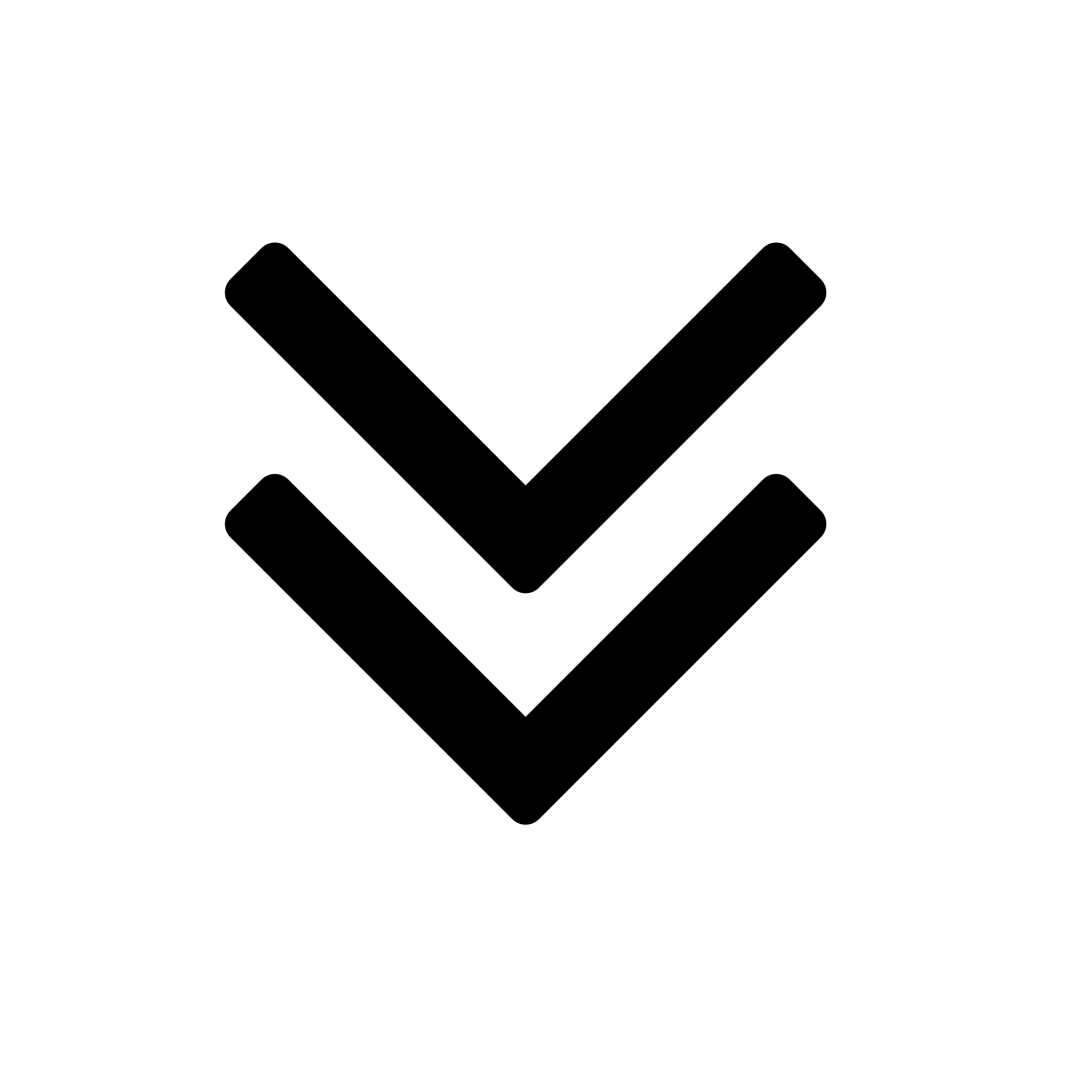
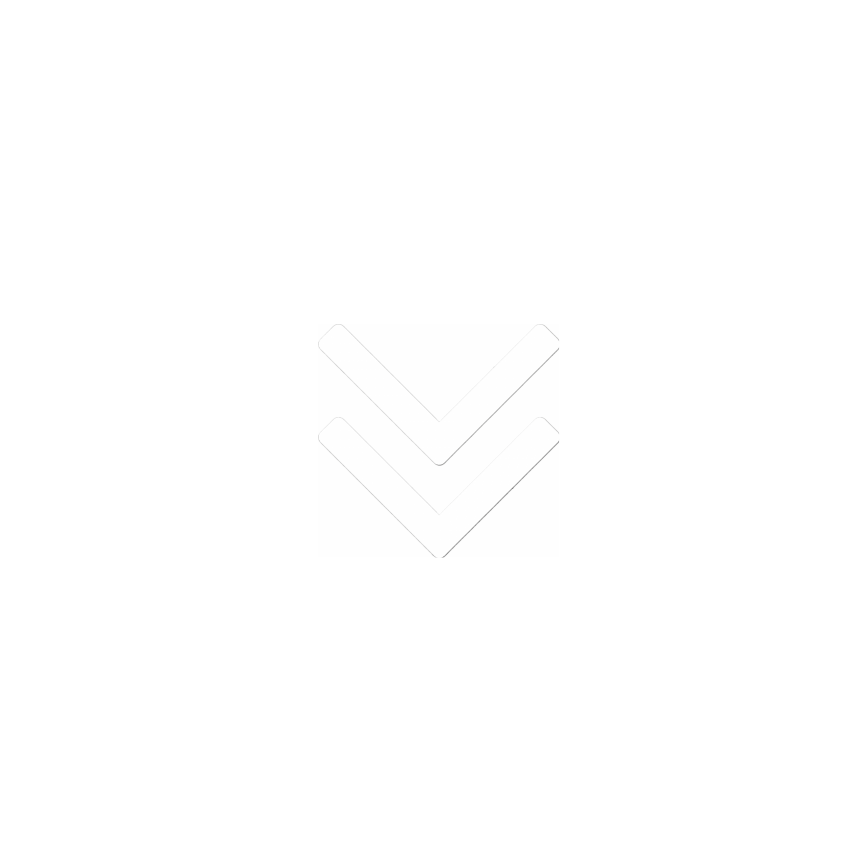
Portfolio page updated

Changed region(s): [[0.2141, 0.4282, 0.7647, 0.7647], [0.2141, 0.2141, 0.7647, 0.5506]]

diff --git a/src/components/portfolio/portfolio.scss b/src/components/portfolio/portfolio.scss
@@ -3,9 +3,9 @@
 
 .portfolio {
 
-    background-color: whitesmoke;
+    background-color: #013328;
     //background: linear-gradient(90deg, #e3ffe7 0%, #d9e7ff 100%);
-    background-image: linear-gradient( #9ce9f3,#d6b8f7);
+    //background-image: linear-gradient( #9ce9f3,#d6b8f7);
     display: flex;
     flex-direction: column;
     align-items: center;
@@ -29,17 +29,17 @@
             .about{
                 height: 65%;
                 width: 95%;
-                border: 1px solid black;
+                border: 2px solid #cc8b65;
                 // background-color: white;
                 h1{
                     text-align: center;
                     font-family: 'Courier New', Courier, monospace;
-                    color: rgb(0, 0, 0);
+                    color: #CC8B65;
                     padding-bottom: 25px;
                     padding-top: 35px;
                 }
                 p{
-                    color: rgb(51, 48, 48);
+                    color: #dbcab3;
                     text-align: center;
                     padding-left: 25px;
                     padding-right: 25px;
@@ -63,7 +63,7 @@
             .tech{
                 height: 70%;
                 width: 95%;
-                background-color: rgb(220, 170, 153);
+                background-color: #cab79d;
                 h1{
                     text-align: center;
                     font-family: 'Courier New', Courier, monospace;
@@ -95,7 +95,8 @@
             .design{
                 height: 25%;
                 width: 95%;
-                background-color: rgb(113, 145, 161);
+                //background-color: #e6e6e6;
+                background-color:#fbc687;
                 h1{
                     text-align: center;
                     font-family: 'Courier New', Courier, monospace;

diff --git a/src/components/nar/nar.scss b/src/components/nar/nar.scss
@@ -1,8 +1,8 @@
 @import "../../global.scss";
 
 .nar {
-  background-image: linear-gradient( #9ce9f3,#d6b8f7);
-  //background-color: white;
+  //background-image: linear-gradient( #9ce9f3,#d6b8f7);
+  background-color: #013328;
   display: flex;
   flex-direction: column;
   align-items: center;
@@ -14,7 +14,8 @@
 
   h1 {
     font-size: 50px;
-
+    color: #CC8B65;
+    padding-top: 30px;
     // @include mobile{
     //   font-size: 20px;
     // }
@@ -48,13 +49,13 @@
       animation: anukriti 7s infinite;
 
       @keyframes anukriti {
-        0%   {background-color: rgb(197, 197, 197);}
-        17%  {background-color:  rgb(228, 198, 222);}
-        35%  {background-color: rgb(221, 193, 210);}
-        50% {background-color: rgb(207, 168, 199);}
-        65% {background-color: rgb(221, 193, 210);}
-        83%  {background-color: rgb(228, 198, 222);}
-        100% {background-color:rgb(197, 197, 197);}
+        0%   {background-color: #CC8B55;}
+        17%  {background-color:  #CC8B58;}
+        35%  {background-color: #CC8B62;}
+        50% {background-color: #CC8B65;}
+        65% {background-color: #CC8B62;}
+        83%  {background-color: #CC8B58;}
+        100% {background-color:#CC8B55;}
       }
 
     //   @include mobile{
@@ -144,7 +145,8 @@
         
         padding: 10px;
         border-radius: 10px;
-        background-color: rgb(186, 119, 192);
+        background-color: $mainColor;
+        color: #e3dcd2;
       }
     }
   }

diff --git a/src/components/works/works.scss b/src/components/works/works.scss
@@ -1,8 +1,8 @@
 @import "../../global.scss";
 
 .works {
-  background-image: linear-gradient(#E1FCFD, #67d4e2);
-  //background-color: crimson;
+  //background-image: linear-gradient(#E1FCFD, #67d4e2);
+  background-color: #100c0d;
   display: flex;
   align-items: center;
   justify-content: center;
@@ -18,12 +18,12 @@
     // }
 
     &.left {
-      left: 100px;
+      left: 200px;
       transform: rotateY(180deg);
     }
 
     &.right {
-      right: 100px;
+      right: 200px;
     }
   }
 
@@ -51,16 +51,16 @@
       .item {
         width: 700px;
         height: 89%;
-        background-color: white;
+        background-color: #c7a794;
         border-radius: 20px;
         display: flex;
         align-items: center;
         justify-content: center;
         //border: 5px solid black;
         animation: mymove 5s infinite;
-        box-shadow: 10px 10px 5px rgb(101, 24, 121);
+        box-shadow: 5px 5px 5px #7a5915;
         @keyframes mymove {
-          30% {box-shadow: 10px 20px 30px rgb(0, 0, 0);}
+          30% {box-shadow: 10px 10px 10px #462e11;}
         }
         
         
@@ -88,7 +88,7 @@
               width: 40px;
               height: 40px;
               border-radius: 50%;
-              background-color: rgb(245, 179, 155);
+              background-color: rgb(167, 90, 62);
               display: flex;
               align-items: center;
               justify-content: center;

diff --git a/src/components/intro/intro.scss b/src/components/intro/intro.scss
@@ -1,8 +1,8 @@
 .intro{
-    background-image: linear-gradient(#E1FCFD, #67d4e2);
+    //background-image: linear-gradient(#E1FCFD, #67d4e2);
     //background-image: linear-gradient(#E1FCFD,#9ce9f3);
     //background-image: linear-gradient(#E1FCFD, #9ce9f3);
-    //background-color: #E1FCFD;
+    background-color: #100C0D;
     display: flex;
 
     .left{
@@ -28,6 +28,7 @@
         flex: 0.5;
         display: relative;
         .wrapper{
+            color: #CC8B65;
             width: 100%;
             height: 100%;
             padding-left: 50px;
@@ -55,7 +56,8 @@
         bottom: 10px;
         left: 70%;
         img{
-            width: 45px;
+            width: 80px;
+            height: 80px;
             animation: arrowBlink 2s infinite;
         }
         @keyframes arrowBlink {

diff --git a/src/components/contact/contact.scss b/src/components/contact/contact.scss
@@ -2,8 +2,8 @@
 
 
 .contact {
-    background-color: lightblue;
-    background: linear-gradient(90deg, #d9e7ff 0%, #e3ffe7 100%);
+    background-color: #100c0d;
+    //background: linear-gradient(90deg, #d9e7ff 0%, #e3ffe7 100%);
     display: flex;
     align-items: center;
     justify-content: center;
@@ -136,8 +136,8 @@
             padding: 30px;
             width: 300px;
             height: 350px;
-            background-color: rgb(68, 61, 61);
-            color: white;
+            background-color: #CC8B65;
+            color: $mainColor;
             box-shadow: rgba(14, 30, 37, 0.201) 0px 2px 4px 0px,rgba(14, 30, 37, 0.338) 0px 2px 16px 0px;
             transition: all 1s ease;
 

diff --git a/src/components/menu/Menu.jsx b/src/components/menu/Menu.jsx
@@ -8,7 +8,7 @@ export default function Menu({ menuOpen, setMenuOpen }) {
           <a href="#intro">Home</a>
         </li>
         <li onClick={()=>setMenuOpen(false)}>
-          <a href="#portfolio">Portfolio</a>
+          <a href="#portfolio">About</a>
         </li>
         <li onClick={()=>setMenuOpen(false)}>
           <a href="#works">Projects</a>

diff --git a/src/components/nar/Nar.jsx b/src/components/nar/Nar.jsx
@@ -33,7 +33,7 @@ export default function Nar() {
       "assets/nar3.png",
 
     desc:
-      "blah blah blah",
+      "Managing the work under the society and contributing towards the managment, at LNMIIT",
   },
   {
     id: 3,

diff --git a/src/components/topbar/topbar.scss b/src/components/topbar/topbar.scss
@@ -3,7 +3,7 @@
 .topbar {
   width: 100%;
   height: 70px;
-  background-color: #E1FCFD;
+  background-color: #CC8B65;
   color: $mainColor;
   position: fixed;
   top: 0;

diff --git a/src/components/intro/animations/animations.scss b/src/components/intro/animations/animations.scss
@@ -10,7 +10,7 @@
 }
 
 .dropping-texts > div {
-  color: rgb(100, 32, 128);
+  color: #fcdfb7;
   font-size:0px;
   opacity:0;
   margin-left:-10px;

diff --git a/src/global.scss b/src/global.scss
@@ -1,2 +1,3 @@
-$mainColor: #070d29;
+//$mainColor: #013328;
 // $mainColor: #161F6D;
+$mainColor: #100C0D;
